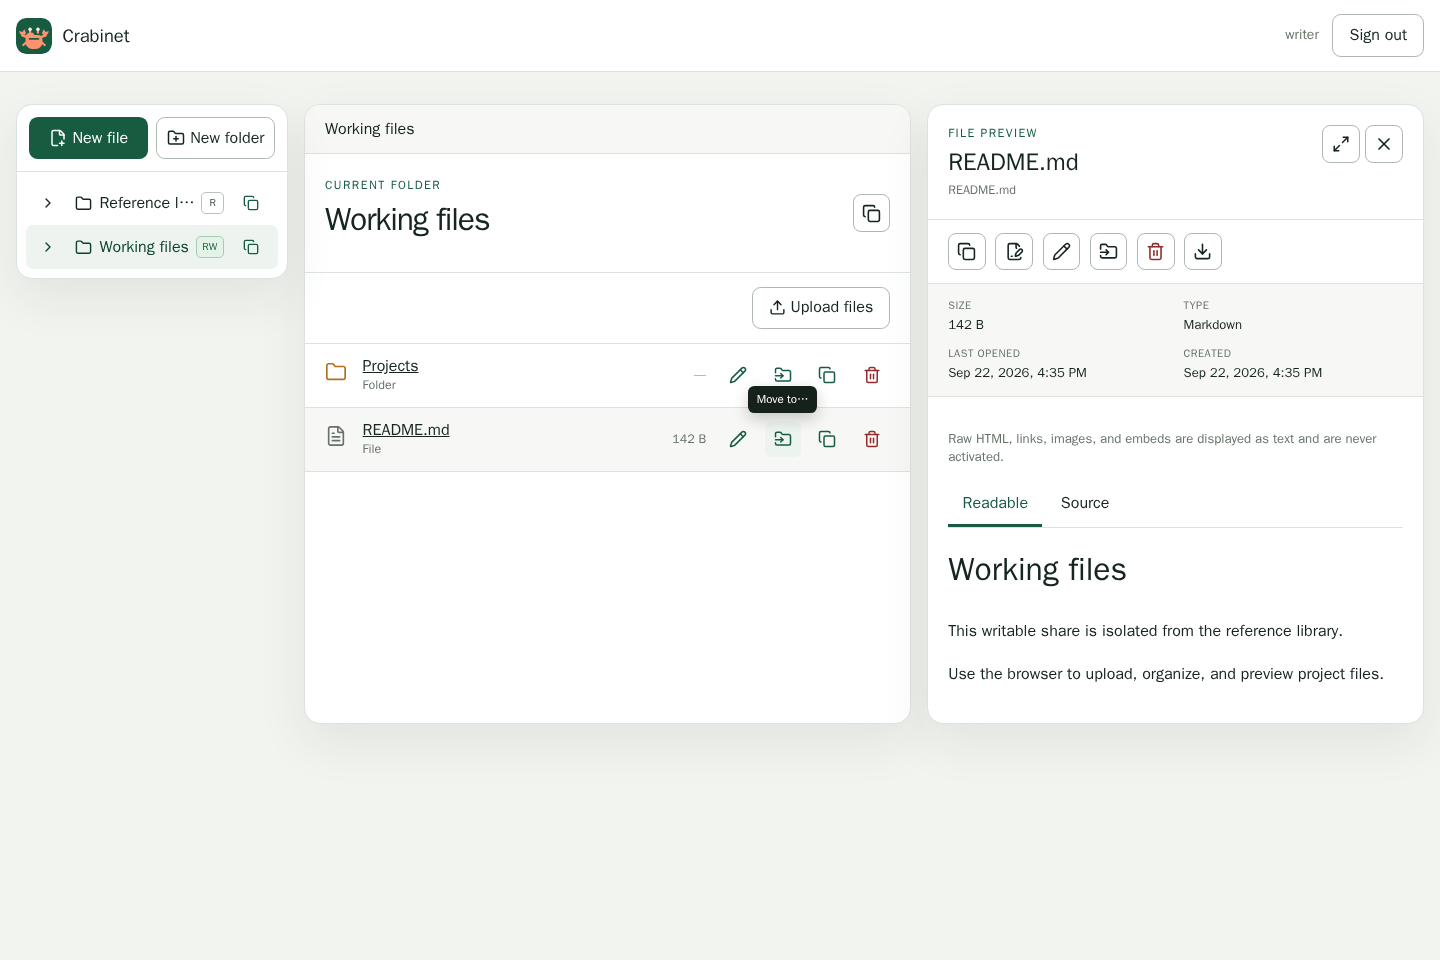
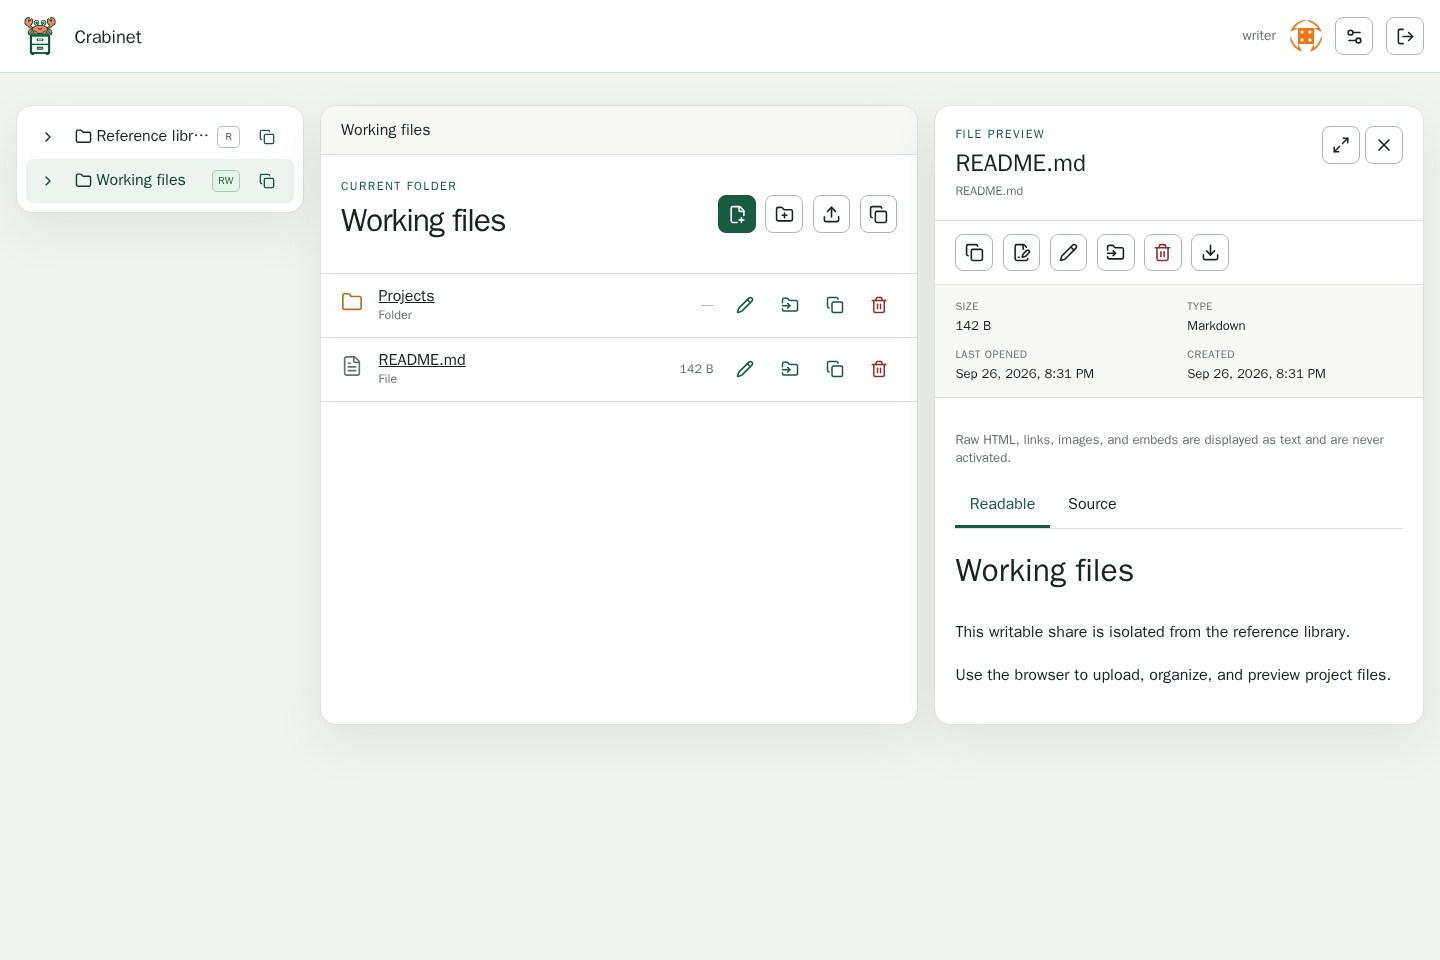
docs: refresh README badges and screenshot (#62)
Correct release verification steps and bring authentication, backup, and contribution guidance in line with the current application.

diff --git a/web/e2e/readme-screenshot.spec.ts b/web/e2e/readme-screenshot.spec.ts
@@ -17,6 +17,7 @@ test("capture the deterministic authenticated browser", async ({ page }) => {
     page.getByRole("heading", { name: "README.md", level: 2 }),
   ).toBeFocused();
   await expect(page.getByTestId("markdown-document")).toBeVisible();
+  await page.mouse.move(650, 700);
 
   await page.screenshot({
     path: "../docs/images/crabinet-browser.png",

diff --git a/README.md b/README.md
@@ -1,5 +1,10 @@
 # Crabinet
 
+[![CI](https://github.com/joanfabregat/crabinet/actions/workflows/ci.yml/badge.svg?branch=main)](https://github.com/joanfabregat/crabinet/actions/workflows/ci.yml)
+[![Weekly security scan](https://github.com/joanfabregat/crabinet/actions/workflows/security-weekly.yml/badge.svg?branch=main)](https://github.com/joanfabregat/crabinet/actions/workflows/security-weekly.yml)
+[![Latest release](https://img.shields.io/github/v/release/joanfabregat/crabinet?sort=semver)](https://github.com/joanfabregat/crabinet/releases/latest)
+[![License: MIT](https://img.shields.io/badge/license-MIT-blue)](LICENSE)
+
 <img src="web/public/crabinet.png" alt="Crabinet logo: a crab on a filing cabinet" width="128">
 
 Crabinet is a security-focused, low-memory file browser for a small server or Podman pod. It provides configuration-defined users, per-share read or write grants, normal filesystem-backed storage, drag-and-drop uploads, file operations, and bounded previews from one self-contained Rust executable with an embedded Preact interface.
@@ -10,7 +15,7 @@ Crabinet is a security-focused, low-memory file browser for a small server or Po
 
 ## What it provides
 
-- Multiple local users with password and/or OpenID Connect sign-in, verified-email account mapping, and configuration-defined per-share `read` or `write` grants.
+- Multiple local users with password, OpenID Connect, and discoverable passkey sign-in, verified-email account mapping, and configuration-defined per-share `read` or `write` grants.
 - Capability-scoped filesystem access: configured roots are opened once, request paths stay relative, and symlinks, hard-link aliases, special files, ambiguous paths, and traversal are rejected.
 - A lazy share/folder tree, touch-friendly folder picker, file-type icons, copyable virtual paths, folder-first browsing, metadata, conditional and ranged downloads, create/rename/move/delete operations, UTF-8 text editing, and streaming multipart uploads.
 - Bounded syntax-highlighted code and text previews, safe Markdown rendering without raw HTML, signature-validated raster image previews, and rendered/source HTML tabs with isolated new-tab views. Rendered HTML is protected by a deny-by-default response CSP and, in-panel, an additional empty iframe sandbox, so uploaded scripts, forms, navigation, and network requests cannot run.
@@ -27,6 +32,8 @@ The Axum/Tokio backend owns authentication, authorization, bounded streaming, an
 
 Signed-in users can open **Settings** and select a shared-folder root as their start folder across devices. Choosing **First shared folder** restores the default. Direct folder links continue to open their specified destination. The Show hidden files preference is also in Settings and remains local to each browser.
 
+Account pictures use an accepted Google profile image when available or a Gravatar image keyed by the configured email address. These are browser requests to external hosts; see [authentication and account pictures](docs/authentication.md#account-pictures).
+
 Start with the [threat model](docs/threat-model.md), [architecture decisions](docs/architecture-decisions.md), and [filesystem invariants](docs/filesystem-security.md) before changing a security boundary. The HTTP behavior used by the frontend is documented in [browse](docs/browse-api.md), [mutation](docs/mutations.md), [preview](docs/previews.md), and [frontend contract](docs/frontend-api-contract.md) notes; these describe the current first-party API, not a stable third-party compatibility promise.
 
 ## Direct-binary quick start
@@ -35,19 +42,16 @@ Release archives contain the executable, license, README, annotated configuratio
 
 ```sh
 curl -LO https://github.com/joanfabregat/crabinet/releases/download/v0.1.0/crabinet-v0.1.0-linux-amd64.tar.gz
-curl -LO https://github.com/joanfabregat/crabinet/releases/download/v0.1.0/SHA256SUMS-amd64
-sha256sum --check SHA256SUMS-amd64
+curl -LO https://github.com/joanfabregat/crabinet/releases/download/v0.1.0/SHA256SUMS
+sha256sum --check --ignore-missing SHA256SUMS
+gh attestation verify crabinet-v0.1.0-linux-amd64.tar.gz \
+  --repo joanfabregat/crabinet
 tar -xzf crabinet-v0.1.0-linux-amd64.tar.gz
 cd crabinet-linux-amd64
 ./crabinet --help
 ```
 
-Replace `v0.1.0` with an existing release tag. Before trusting an artifact, also verify its GitHub build attestation:
-
-```sh
-gh attestation verify crabinet-v0.1.0-linux-amd64.tar.gz \
-  --repo joanfabregat/crabinet
-```
+Replace `v0.1.0` with an existing release tag. The release publishes one combined `SHA256SUMS` file; `--ignore-missing` checks the archive you downloaded without requiring every release asset.
 
 Prepare paths outside every share, generate a session secret, and create a password hash interactively:
 
@@ -111,7 +115,7 @@ The `.index-staging` name remains reserved so existing writable shares can be us
 
 ## Rootless Podman pod
 
-The image is `ghcr.io/joanfabregat/crabinet:<tag>`. Pin a release digest in production. The image is `scratch`-based, runs without root, and contains the executable and the bundled CA data license; it has no shell or package manager.
+The image is `ghcr.io/joanfabregat/crabinet:<tag>`. Pin a release digest in production. The image is `scratch`-based, runs without root, and contains the executable and required dependency license notices; it has no shell or package manager.
 
 The following rootless example maps the invoking host user into the pod, keeps the container root filesystem read-only, drops capabilities, and mounts state separately. Adjust SELinux labels for your host. Use `:ro` for every share that does not need writes.
 
@@ -170,7 +174,7 @@ Do not publish the backend port beyond the proxy. Apply conservative request-bod
 Back up these as separate classes with restrictive permissions:
 
 - `config.toml`, the session-secret file, and deployment metadata;
-- the SQLite file and its `-wal`/`-shm` companions when present;
+- the SQLite file, which holds sessions, start-folder preferences, and passkeys, plus its `-wal`/`-shm` companions when present;
 - every share directory, preserving ownership, modes, timestamps, and extended attributes relevant to your workload.
 
 For a simple consistent backup, stop the Crabinet container, snapshot/copy SQLite and writable shares, then restart. A live filesystem copy is not transactionally consistent with concurrent file mutations; use a storage-level snapshot that covers all writable shares and state together, or accept that they represent different instants. Read-only shares may be copied live according to the underlying application's rules.
@@ -186,7 +190,7 @@ Restore while Crabinet is stopped. Restore configuration, secret, SQLite state, 
 
 For rollback, stop the new process before starting the old one. Restore the pre-upgrade SQLite/config snapshot if release notes describe a state or schema change. Never run old and new versions concurrently against a writable share or the same SQLite database.
 
-The start-folder feature migrates the SQLite schema from version 1 to 2 at startup. A version 1 binary cannot open a migrated database; restore its matching pre-upgrade SQLite snapshot before rolling back.
+The start-folder and passkey features migrate the SQLite schema through versions 2 and 4. Crabinet v0.1.0 uses schema version 4, even when passkeys are disabled. An older binary cannot open a newer schema; restore its matching pre-upgrade SQLite snapshot before rolling back.
 
 ## Troubleshooting and logs
 

diff --git a/docs/configuration.md b/docs/configuration.md
@@ -54,11 +54,11 @@ Set `auth.oidc_enabled = true` and provide `[auth.oidc]` with the HTTPS issuer U
 
 The provider must return `email` and `email_verified = true` in the signed ID token or at its UserInfo endpoint. Crabinet calls UserInfo only after verifying the ID token and requires its `sub` to match. It matches the email to a unique `users.email` value, ignoring ASCII letter case. An unknown or unverified email receives no local session. Configure only a provider whose verified-email policy you trust: reassignment of a verified address at that provider can transfer the corresponding Crabinet account. Users still receive only their locally configured share grants. The provider's authorization code, access token, and ID token stay on the server.
 
-Password sign-in remains enabled by default. Its form accepts a configured username or email address. With both methods enabled, users can choose either method on the sign-in page. Set `auth.password_enabled = false` for Google-only initial sign-in; anonymous visitors still see the sign-in page. A user without `password_hash` can sign in by OIDC and must have an email binding. Crabinet rejects an enabled user with no usable initial method, an OIDC section that is incomplete, and a configuration that disables both initial methods. To recover from an unavailable provider in OIDC-only mode, an operator must restore provider access or enable password sign-in with a valid hash, validate the configuration, and restart Crabinet.
+Password sign-in remains enabled by default. Its form accepts a configured username or email address. With both methods enabled, users can choose either method on the sign-in page. Set `auth.password_enabled = false` to require OIDC for initial enrollment and recovery; anonymous visitors still see the sign-in page. A user without `password_hash` can sign in by OIDC and must have an email binding. Crabinet rejects an enabled user with no usable initial method, an OIDC section that is incomplete, and a configuration that disables both initial methods. To recover from an unavailable provider when passwords are disabled, an operator must restore provider access or enable password sign-in with a valid hash, validate the configuration, and restart Crabinet.
 
 ## Passkeys
 
-Set `[auth.passkeys] origin = "https://files.example.com"` to enable passkeys. The origin must exactly match the public HTTPS origin used by browsers, including any nondefault port, and cannot include a path, query, or fragment. Crabinet stores WebAuthn credentials and stable user handles in the same SQLite database as sessions. Users first sign in with Google or a password, then add and name passkeys in Settings. They may keep up to 20 keys, rename them, and remove them independently. The sign-in page accepts a username or configured email before offering that account's keys. A passkey signs in to the same configured user account and receives the same session and grants. Lost keys can be replaced after Google or password sign-in; keep one of these initial methods enabled for enrollment and recovery. Challenges expire after five minutes, are single use, and are held in process memory, so an in-progress ceremony must restart if the server restarts or a load balancer routes its two requests to different replicas.
+Set `[auth.passkeys] origin = "https://files.example.com"` to enable passkeys. The origin must exactly match the public HTTPS origin used by browsers, including any nondefault port, and cannot include a path, query, or fragment. Crabinet stores WebAuthn credentials and stable user handles in the same SQLite database as sessions. Users first sign in with OIDC or a password, then add and name discoverable passkeys in Settings. They may keep up to 20 keys, rename them, and remove them independently. The sign-in page offers passkey sign-in without asking for a username or email; the authenticator lets the user choose a stored credential. The backend also accepts an account name for older non-discoverable credentials, but the current UI does not offer that flow. A passkey signs in to the same configured user account and receives the same session and grants. Lost keys can be replaced after OIDC or password sign-in; keep one of these initial methods enabled for enrollment and recovery. Challenges expire after five minutes, are single use, and are held in process memory, so an in-progress ceremony must restart if the server restarts or a load balancer routes its two requests to different replicas.
 
 This version migrates the SQLite database to schema version 4 at startup, even if passkeys are not enabled. Take a consistent database backup before upgrading; an older binary rejects the migrated schema, so rollback requires restoring that backup.
 

diff --git a/docs/threat-model.md b/docs/threat-model.md
@@ -2,14 +2,14 @@
 
 ## Scope
 
-Crabinet is an authenticated file browser for explicitly mounted filesystem roots. Operators define users, enabled sign-in methods, optional Argon2id password hashes and verified-email OIDC bindings, shares, and per-share grants in an immutable TOML file. The application serves one embedded browser client, stores sessions and audit records in SQLite, and reads or modifies mounted files only through authenticated API operations.
+Crabinet is an authenticated file browser for explicitly mounted filesystem roots. Operators define users, enabled sign-in methods, optional Argon2id password hashes and verified-email OIDC bindings, shares, and per-share grants in an immutable TOML file. The application serves one embedded browser client, stores sessions and passkey state in SQLite, emits audit records to structured logs, and reads or modifies mounted files only through authenticated API operations.
 
 This model covers the application, its OCI image, its configuration and secret mounts, and the browser security boundary. TLS termination, host filesystem administration, container-engine security, backup storage, and the reverse proxy are operator-controlled dependencies.
 
 ## Assets
 
 - File contents and metadata inside configured shares.
-- Password hashes, session secrets, session records, and CSRF tokens.
+- Password hashes, session secrets, session records, CSRF tokens, and passkey credentials and user handles.
 - Configuration, audit records, and security logs.
 - Integrity of read-only shares and authorization grants.
 - Availability within the configured CPU, memory, storage, and request limits.
@@ -50,6 +50,7 @@ Configuration and mounted share roots are operator-trusted at startup. Filenames
 12. Code and text render as inert text. Markdown disallows raw HTML and is sanitized. HTML preview has both iframe and HTTP CSP sandboxes and cannot execute scripts, submit forms, navigate, open popups, use application storage, or contact external origins.
 13. Logs, errors, test artifacts, and CI output exclude passwords, hashes, cookies, session IDs, secret contents, and file contents.
 14. Release images package the same tested binaries attached to the release; dependency and provenance evidence accompanies releases.
+15. Passkey registration requires an authenticated session and CSRF proof. Authentication binds a single-use challenge to the configured HTTPS origin and relying party, requires user verification, and maps the credential to an enabled local user before creating a session.
 
 The concrete path grammar, capability lifecycle, alias policy, platform assumptions, and authorization contract are specified in [Filesystem security boundary](filesystem-security.md). Preview formats, size limits, response headers, and the source-only HTML decision are specified in [Preview security contract](previews.md).
 
@@ -63,6 +64,7 @@ The concrete path grammar, capability lifecycle, alias policy, platform assumpti
 | Password cracking | Argon2id with enforced parameters and salts; protected configuration | PHC policy tests and release benchmarks |
 | Login denial of service | Rate limiting and bounded concurrent Argon2 operations | Concurrency and memory tests |
 | Session theft/fixation | Random opaque IDs, hashed server records, rotation, expiry, secure cookies | HTTP integration tests |
+| Passkey account confusion or replay | Discoverable credential and user-handle mapping, origin and relying-party checks, user verification, single-use expiring challenges | WebAuthn unit and router tests |
 | CSRF | CSRF token plus Origin/Referer validation and SameSite cookies | Cross-origin request tests |
 | Stored XSS/active HTML | Inert rendering, sanitizer, CSP sandbox, iframe sandbox | Real-browser hostile fixtures |
 | Upload exhaustion | Streaming, request/file/count/quota limits, private per-share staging, bounded non-recursive recovery, cleanup, bounded concurrency | Multipart failure, staging recovery, and resource tests |

diff --git a/docs/authentication.md b/docs/authentication.md
@@ -20,7 +20,11 @@ The login limiter keys attempts by a fixed-size SHA-256 digest of the trimmed, A
 
 ## Passkey verification
 
-Passkey registration requires an active session and its CSRF token. A registration challenge is bound to that session, used once, and expires after five minutes. WebAuthn validates the configured HTTPS origin and relying party ID, the challenge, the authenticator's proof of possession, and user verification. Each configured user has a stable random WebAuthn user handle and may store up to 20 named credentials. The name is only a local label; renaming it does not change the authenticator. Sign-in begins with a username or configured email so the server can offer that account's credentials; successful verification creates an ordinary Crabinet session. Removing a key deletes its credential record, while the other keys and Google or password sign-in remain available. Unrecognized and disabled users receive no passkey session. Passkey start requests use the same account-and-peer rate limiter as password sign-in; a shared proxy should also enforce a per-client limit.
+Passkey registration requires an active session and its CSRF token. A registration challenge is bound to that session, used once, and expires after five minutes. WebAuthn validates the configured HTTPS origin and relying party ID, the challenge, the authenticator's proof of possession, and user verification. Each configured user has a stable random WebAuthn user handle and may store up to 20 named discoverable credentials. The name is only a local label; renaming it does not change the authenticator. The sign-in page starts a discoverable ceremony without a username or email; the authenticator presents its stored credentials, and the server maps the selected credential and user handle to an enabled configured user. The API still accepts a username or configured email for older non-discoverable credentials, but the current UI does not offer that flow. Successful verification creates an ordinary Crabinet session. Removing a key deletes its credential record, while the other keys and OIDC or password sign-in remain available. Unrecognized and disabled users receive no passkey session. Passkey start requests use the same rate limiter as password sign-in, with a fixed account bucket for discoverable ceremonies and the transport peer address for both flows; a shared proxy should also enforce a per-client limit.
+
+## Account pictures
+
+When OIDC supplies a valid Google profile picture URL, Crabinet includes it in the session response. Otherwise, if the configured user has an email address, the server returns a Gravatar URL derived from the SHA-256 hash of that email after trimming whitespace and folding ASCII letters to lowercase. The browser then requests the image from Gravatar, which receives the hash and the browser's network address. If no email is configured, no account picture is shown. This external image request is currently not configurable.
 
 ## Session design
 

diff --git a/docs/frontend-api-contract.md b/docs/frontend-api-contract.md
@@ -26,6 +26,8 @@ This document records the assumptions made by the Preact file-browser shell. The
 
 An anonymous or expired session returns `401`. `csrfToken` is held in memory and sent on authenticated state-changing requests; it is not a session identifier.
 
+`user.pictureUrl` is optional. When present, it is an accepted Google profile image or a Gravatar URL derived from the configured email address; the browser loads that external image. See [account pictures](authentication.md#account-pictures).
+
 `defaultFolder` is `null` when no start folder is selected or the saved folder is no longer accessible. Opening `/` goes to this folder when present; a direct `/browse/*` link keeps its own destination. `PUT /api/v1/preferences` accepts `{ "defaultFolder": { "shareId": "docs", "path": "projects/crabinet" } }` or `{ "defaultFolder": null }`, with same-origin and session-bound CSRF checks. The server accepts only an existing directory in a share granted to the current user, stores its virtual share ID and path in SQLite, and returns the new `defaultFolder` value. Passwords and host filesystem paths are not stored in this preference.
 
 `GET /api/v1/auth/methods` reports the enabled sign-in methods, including `passkeyEnabled`. `POST /api/v1/auth/login` accepts `{ "username": string, "password": string }`, where `username` may be a configured username or email address. It rotates the session identifier and returns the same session shape. Login failures return a generic `401` response. The server validates `Origin`/`Sec-Fetch-Site`, rate-limits attempts, and never includes credential details in responses or logs. When OIDC is enabled, the browser starts at `GET /api/v1/auth/oidc/start`; the server handles the fixed callback and creates the same local session after verifying the provider identity. The sign-in page is always shown before choosing a method.

diff --git a/CONTRIBUTING.md b/CONTRIBUTING.md
@@ -14,7 +14,7 @@ Thank you for improving Crabinet. Security-sensitive changes need evidence: a cl
 
 The supported toolchains are pinned in CI: Rust 1.90 and Node 24. Do not execute project Rust, JavaScript, TypeScript, build scripts, or package lifecycle scripts directly on an untrusted host. Use the repository's approved constrained container runner or an equivalent locked-down rootless Podman environment.
 
-On Joan's dev-vm, use the shared runners described by the `run-rust`, `run-node`, and `run-playwright` skills. A typical frontend check deliberately installs without scripts, audits, then enables reviewed lifecycle scripts:
+On Joan's dev-vm, use the shared runners described by the `run-rust`, `run-node`, and `run-playwright` skills. Fetch and audit the locked dependencies with lifecycle scripts disabled:
 
 ```sh
 cd web
@@ -30,6 +30,22 @@ cd web
     set -eu
     npm ci --ignore-scripts
     npm audit --audit-level=high
+  '
+```
+
+Then run reviewed lifecycle scripts and checks offline with a read-only cache:
+
+```sh
+~/bin/run-podman \
+  --project "$PWD" \
+  --cache-ro npm \
+  --memory 4g \
+  --cpus 2 \
+  --timeout 30m \
+  docker.io/library/node:24-bookworm-slim \
+  /bin/sh -lc '
+    set -eu
+    export npm_config_nodedir=/usr/local
     npm rebuild
     npm run format:check
     npm run lint

diff --git a/docs/architecture-decisions.md b/docs/architecture-decisions.md
@@ -14,7 +14,7 @@ Users, shares, grants, limits, and secret-file references are operator configura
 
 ## Filesystem data and SQLite runtime state
 
-Files remain normal files in explicitly mounted roots. SQLite stores server-side sessions and per-user start-folder preferences, while structured audit events go to standard output with the rest of the application logs. This avoids a database service while keeping runtime state separate from immutable configuration.
+Files remain normal files in explicitly mounted roots. SQLite stores server-side sessions, per-user start-folder preferences, and passkey credentials and user handles, while structured audit events go to standard output with the rest of the application logs. This avoids a database service while keeping runtime state separate from immutable configuration.
 
 ## Argon2id
 
